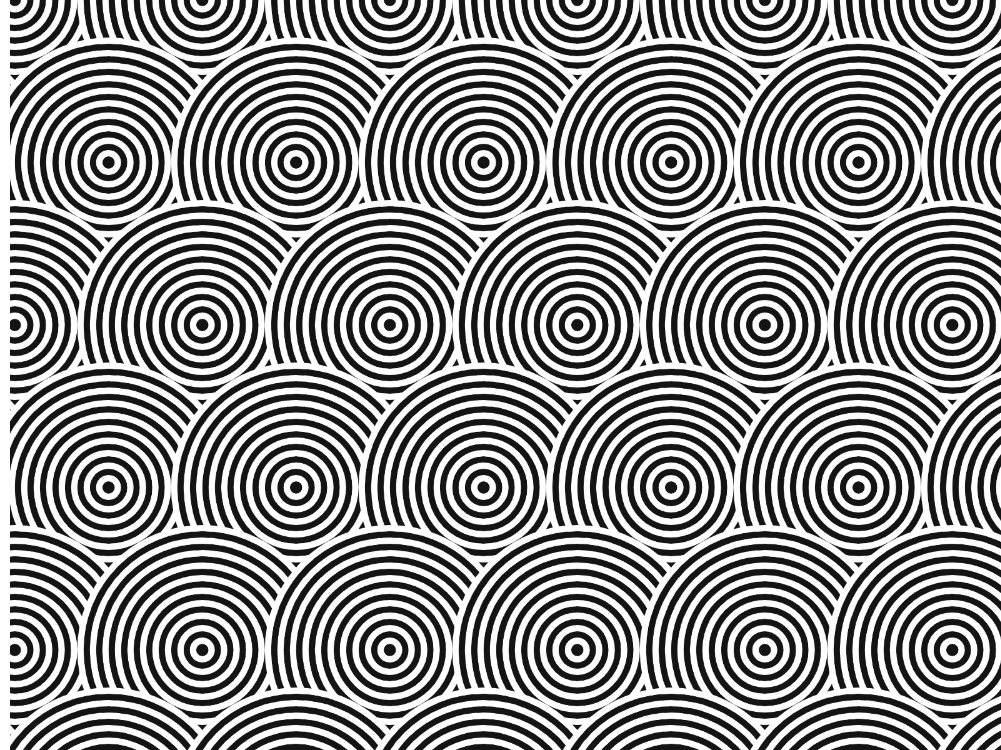
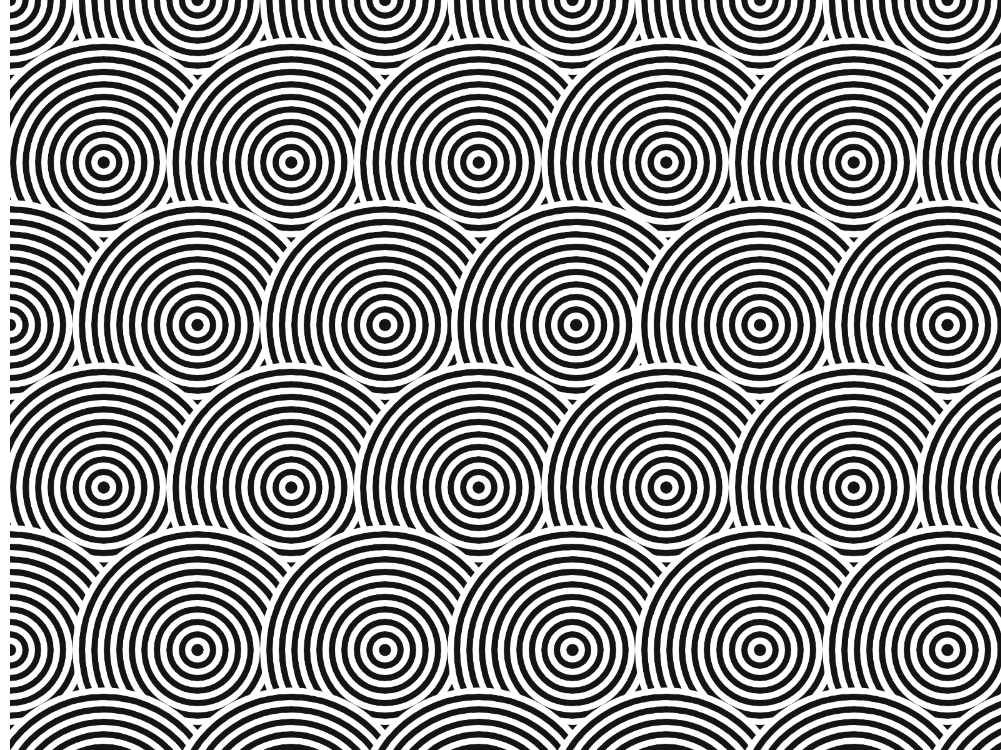
Aggiorna animazione di es1

diff --git a/es1/sketch.js b/es1/sketch.js
@@ -5,7 +5,8 @@
 // Parametri critici:
 // passoOrizzontale e passoVerticale: distanza fra i centri
 // spessoreFascia: distanza fra gli anelli
-// ampiezzaMovimento: spostamento massimo del reticolo
+// centroXDiscoInMovimento e centroYDiscoInMovimento: posizione del disco animato
+// ampiezzaMovimento: spostamento massimo del disco animato
 // velocitaMovimento: velocità dello spostamento
 
 const larghezzaTela = 800;
@@ -13,6 +14,8 @@ const altezzaTela = 600;
 const passoOrizzontale = 150;
 const passoVerticale = 130;
 const spessoreFascia = 5;
+const centroXDiscoInMovimento = 450;
+const centroYDiscoInMovimento = 260;
 const ampiezzaMovimento = 8;
 const velocitaMovimento = 0.02;
 const raggioMassimo = 100;
@@ -24,21 +27,24 @@ function setup() {
 function draw() {
   background(255);
 
-  const spostamento = sin(frameCount * velocitaMovimento) * ampiezzaMovimento;
   noFill();
 
   for (let y = -passoVerticale; y <= height + passoVerticale; y += passoVerticale) {
     const sfalsamento = (round(y / passoVerticale) % 2) * passoOrizzontale / 2;
 
     for (let x = -passoOrizzontale; x <= width + passoOrizzontale; x += passoOrizzontale) {
-      const centroX = x + sfalsamento + spostamento;
+      const centroX = x + sfalsamento;
+      const spostamento = centroX === centroXDiscoInMovimento && y === centroYDiscoInMovimento
+        ? sin(frameCount * velocitaMovimento) * ampiezzaMovimento
+        : 0;
+      const centroXAnimato = centroX + spostamento;
       let numeroAnello = 0;
 
       for (let raggio = spessoreFascia / 2; raggio <= raggioMassimo; raggio += spessoreFascia) {
         const anelloNero = numeroAnello % 2 === 0;
         stroke(anelloNero ? 20 : 255);
         strokeWeight(spessoreFascia);
-        circle(centroX, y, raggio * 2);
+        circle(centroXAnimato, y, raggio * 2);
         numeroAnello++;
       }
     }
